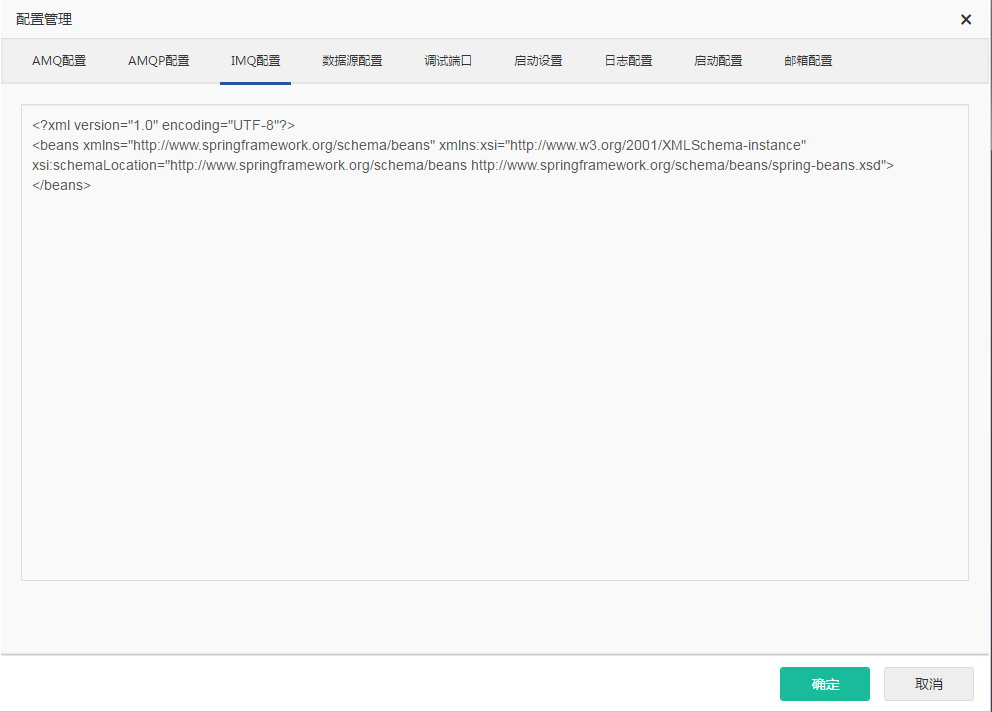
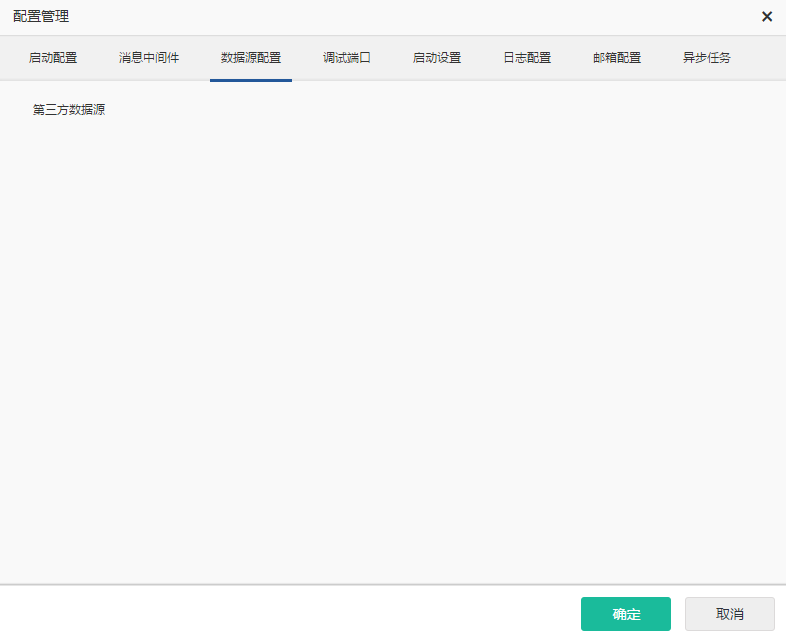
Updates articles/cesb/5-/zhi_yuan_guan_li.md
Auto commit by GitBook Editor

diff --git a/articles/cesb/5-/zhi_yuan_guan_li.md b/articles/cesb/5-/zhi_yuan_guan_li.md
@@ -102,7 +102,7 @@
 
 **配置**
 
-选择一个服务器节点，单击当前状态中“配置”按钮![](/assets/5-/image28.png) ，会弹出“修改配置信息”对话框。该对话框以页签形式显示出选择的服务器上的配置信息，包括AMQ配置、AMQP配置、IMQ配置、数据源配置、调试端口、启动设置、日志配置、启动配置、邮箱配置。详细界面如下：
+选择一个服务器节点，单击当前状态中“配置”按钮![](/assets/5-/image28.png) ，会弹出“修改配置信息”对话框。该对话框以页签形式显示出选择的服务器上的配置信息，包括启动配置、消息中间件、数据源配置、调试端口、启动设置、日志配置、邮箱配置、异步任务。详细界面如下：
 
 ![](/assets/5-/image29.png)
 
